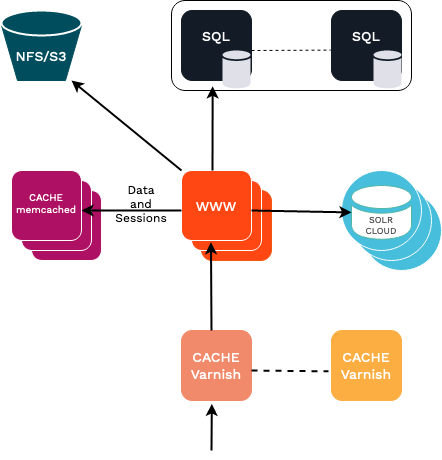
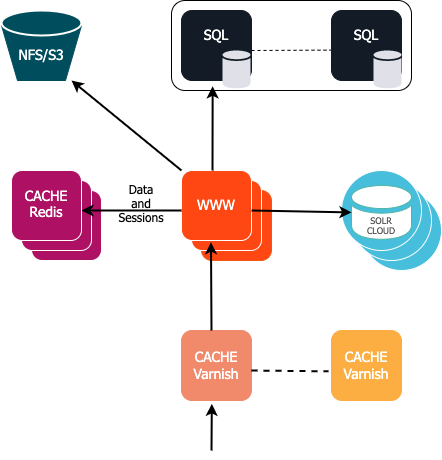
IBX-10245: Document 5.0 requirements

diff --git a/docs/infrastructure_and_maintenance/cache/persistence_cache.md b/docs/infrastructure_and_maintenance/cache/persistence_cache.md
@@ -12,7 +12,7 @@ Persistence cache can best be described as an implementation of `SPI\Persistence
 
 As shown in the illustration, this is done in the exact same way as the event layer is a custom implementation of `API\Repository` decorating the main repository.
 In the case of persistence cache, instead of sending events on calls passed on to the decorated implementation, most of the load calls are cached, and calls that perform changes purge the affected caches.
-Cache handlers *(for example, Memcached, Redis, or Filesystem)* can be configured using Symfony configuration.
+Cache handlers *(for example, Redis, or Filesystem)* can be configured using Symfony configuration.
 For details on how to reuse this Cache service in your own custom code, see below.
 
 ## Transparent cache
@@ -47,10 +47,10 @@ To see where and how to contribute additional caches, refer to the [source code]
 !!! note
 
     Current implementation uses Symfony cache.
-    It technically supports the following cache backends: [APCu, Array, Chain, Doctrine, Filesystem, Memcached, PDO & Doctrine DBAL, Php Array, Proxy, Redis]([[= symfony_doc =]]/components/cache/cache_pools.html#creating-cache-pools).
-    [[= product_name =]] officially supports only using Filesystem for single server and Redis or Memcached for clustered setups.
+    It technically supports the following cache backends: [APCu, Array, Chain, Doctrine, Filesystem, PDO & Doctrine DBAL, Php Array, Proxy, Redis]([[= symfony_doc =]]/components/cache/cache_pools.html#creating-cache-pools).
+    [[= product_name =]] officially supports only using Filesystem for single server and Redis for clustered setups.
 
-Use of Memcached or Redis as shared cache back end is a requirement for use in clustering setup.
+Use of Redis as shared cache back end is a requirement for use in clustering setup.
 For an overview of this feature, see [Clustering](clustering.md).
 Filesystem adapters, for example, are **not** intended to be used over a shared filesystem.
 
@@ -210,79 +210,9 @@ Several cloud providers have managed services that are easier to set up, handle 
     If you use Platform.sh Enterprise you can benefit from the Redis Sentinel across three nodes for great fault tolerance.
     Platform.sh Professional and lower versions offer Redis in single instance mode only.
 
-### Memcached
-
-[Memcached, a distributed caching solution](http://memcached.org/) is a cache solution that is supported for clustering use, as an alternative to Redis.
-
-See [Memcached Cache Adapter in Symfony documentation]([[= symfony_doc =]]/components/cache/adapters/memcached_adapter.html#configure-the-connection) for information on how to configure Memcached.
-
-
-#### Supported Adapters
-
-There is one Memcached adapter available out of the box.
-
-##### `Symfony\Component\Cache\Adapter\MemcachedAdapter`
-
-**Pros**: Memcached is able to handle much more concurrent load by design (multi threaded), and typically uses far less memory than Redis in general due to a simpler data structure.
-
-**Cons**: 1.5-2x more lookups to the back-end cache server then `RedisTagAwareAdapter`.
-Depending on the number of lookups and latency to cache server this might affect page load time.
-
-#### Adjusting configuration
-
-Out of the box in `config/packages/cache_pool/cache.memcached.yaml` you can find a default example that can be used.
-
-!!! note "[[= product_name_cloud =]]"
-
-    For [[= product_name_cloud =]]/Platform.sh: This is automatically configured in `vendor/ibexa/core/src/bundle/Core/DependencyInjection/IbexaCoreExtension.php` if you have enabled Memcached as `cache` Platform.sh service.
-
-For anything else, you can enable it with environment variables detected automatically by `vendor/ibexa/core/src/bundle/Core/DependencyInjection/IbexaCoreExtension.php`.
-For instance, if you set the following environment variables `export CACHE_POOL="cache.memcached" CACHE_DSN="user:pass@localhost?weight=33"`, it results in config like this:
-
-``` yaml
-services:
-    cache.memcached:
-        parent: cache.adapter.memcached
-        tags:
-            - name: cache.pool
-              clearer: cache.app_clearer
-              provider: 'memcached://user:pass@localhost?weight=33'
-              # Default CACHE_NAMESPACE value, see bin/config/cache_pool/cache.redis.yaml for usage with e.g. multi repo.
-              namespace: 'ez'
-```
-
-See `config/default_parameters.yaml` and `config/cache_pool/cache.memcached.yaml` for further details on `CACHE_POOL`, `CACHE_DSN` and `CACHE_NAMESPACE`.
-
-!!! caution "Clearing Memcached cache"
-
-    The regular `php bin/console cache:clear` command doesn't clear Memcached persistence cache.
-    Use a dedicated Symfony command to clear the pool you have configured: `php bin/console cache:pool:clear cache.memcached`.
-
-
-!!! caution "Connection errors issue"
-
-    If Memcached does display connection errors when using the default (ascii) protocol, then switching to binary protocol *(in the configuration and Memcached daemon)* should resolve the issue.
-
-!!! note
-
-    Memcached must not be bound to the local address if clusters are in use, or user logins fail.
-    To avoid this, in `/etc/memcached.conf` take a look under `# Specify which IP address to listen on. The default is to listen on all IP addresses`
-
-    For development environments, change the address below this comment in `/etc/memcached.conf` to `-l 0.0.0.0`
-
-    For production environments, follow this more secure instruction from the Memcached man:
-
-    > -l &lt;addr&gt;
-
-    > Listen on &lt;addr&gt;; default to INADDR\_ANY. &lt;addr&gt; may be specified as host:port.
-    If you don't specify a port number, the value you specified with -p or -U is used.
-    You may specify multiple addresses separated by comma or by using -l multiple times.
-    This is an important option to consider as there is no other way to secure the installation.
-    Binding to an internal or firewalled network interface is suggested.
-
 ## Using cache service
 
-Using the internal cache service allows you to use an interface and without caring whether the system is configured to place the cache in Memcached or on File system.
+Using the internal cache service allows you to use an interface and without caring whether the system is configured to place the cache on File system.
 And as [[= product_name =]] requires that instances use a cluster-aware cache in cluster setup, you can safely assume your cache is shared *(and invalidated)* across all web servers.
 
 !!! note

diff --git a/docs/infrastructure_and_maintenance/performance.md b/docs/infrastructure_and_maintenance/performance.md
@@ -16,7 +16,7 @@ If you're in a hurry, the most important recommendations on this page are:
 - Dump optimized Composer autoload classmap
 - Use a full web (Nginx/Apache) server with vhost
 - Avoid shared filesystems for code (Docker for Mac/Win, VirtualBox/*, Vagrant, and more), or find ways to optimize or work around the issues.
-- For clustering (mainly relevant for production/staging), reduce latency to Redis/Memcached, use Varnish and [Solr](solr_overview.md).
+- For clustering (mainly relevant for production/staging), reduce latency to Redis, use Varnish and [Solr](solr_overview.md).
 
 ## Client
 
@@ -31,7 +31,7 @@ In production setups:
     - Compared to the built-in Symfony Proxy in PHP Varnish is much faster and is able to queue up requests for the same fresh/invalidated resource.
     - With [ibexa/http-cache](https://github.com/ibexa/http-cache) support for xkey and grace Varnish provides more stable performance in read/write scenarios.
 - Set up [[= product_name =]] in [cluster mode](clustering.md) if you need to handle bigger spikes of traffic than a single server can manage.
-    - See [recommendation for Memcached/Redis](#memcachedredis) and [Search](#search) below.
+    - See [recommendation for Redis](#redis) and [Search](#search) below.
 
 !!! note
 
@@ -61,20 +61,15 @@ In production setups:
 - Keep Composer up to date.
 - Always dump optimized class map using `composer dump-autoload --optimize` or relevant flags on `composer install/update`.
 
-### Memcached/Redis
+### Redis
 
-!!! note
-
-    Redis is currently recommended over Memcached, as the latter has had big performance issues.
-    [Symfony v3.4.15](https://github.com/symfony/symfony/pull/28249) may have resolved this.
-
-- Memcached/Redis can in some cases perform better than filesystem cache even with a single server, as it offers better general performance for operations invalidating cache.
+- Redis can in some cases perform better than filesystem cache even with a single server, as it offers better general performance for operations invalidating cache.
     - However, pure read performance is slower, especially if the next points aren't optimized.
     - With cache being on different node(s) than web server, make sure to try to tune latency between the two.
 
 !!! tip
 
-    Check if your cloud provider has native service for Memcached/Redis, as those might be better tuned.
+    Check if your cloud provider has native service for Redis, as those might be better tuned.
 
 - If you use Redis, make sure to tune it for in-memory cache usage. Its persistence feature isn't needed with cache and severely slows down execution time.
     - [For use with sessions](sessions.md#cluster-setup) however, persistence can be a good fit if you want sessions to survive service interruptions.

diff --git a/docs/infrastructure_and_maintenance/clustering/clustering.md b/docs/infrastructure_and_maintenance/clustering/clustering.md
@@ -13,12 +13,12 @@ The parts illustrate the different roles needed for a successful cluster setup.
 
 ![Server setup for clustering](server_setup.png)
 
-The number of web servers, Memcached/Redis, Solr, Varnish, Database, and NFS servers, but also whether some servers play several of these roles (typically running Memcached/Redis across the web server), is up to you and your performance needs.
+The number of web servers, Redis, Solr, Varnish, Database, and NFS servers, but also whether some servers play several of these roles (typically running Redis across the web server), is up to you and your performance needs.
 
 The minimal requirements are:
 
 - [Shared HTTP cache (using Varnish)](reverse_proxy.md#using-varnish-or-fastly)
-- [Shared persistence cache](#shared-persistence-cache) and [sessions](#shared-sessions) (using Redis or Memcached)
+- [Shared persistence cache](#shared-persistence-cache) and [sessions](#shared-sessions) (using Redis)
 - Shared database (using MySQL/MariaDB)
 - [Shared binary files](#shared-binary-files) (using NFS, or S3)
 
@@ -35,21 +35,20 @@ It's also recommended to use:
 ### Shared persistence cache
 
 Redis is the recommended cache solution for clustering.
-An alternative solution is using Memcached.
 
 See [persistence cache documentation](persistence_cache.md#persistence-cache-configuration) on information on how to configure them.
 
 ### Shared sessions
 
 For a [cluster](clustering.md) setup you need to configure sessions to use a back end that is shared between web servers.
-The main options out of the box in Symfony are the native PHP Memcached or PHP Redis session handlers, alternatively there is Symfony session handler for PDO (database).
+The main option out of the box in Symfony is the PHP Redis session handler, alternatively there is Symfony session handler for PDO (database).
 
 To avoid concurrent access to session data from front-end nodes, if possible you should either:
 
 - Enable [Session locking](https://www.php.net/manual/en/features.session.security.management.php#features.session.security.management.session-locking)
 - Use "Sticky Session", aka [Load Balancer Persistence](https://en.wikipedia.org/wiki/Load_balancing_%28computing%29#Persistence)
 
-Session locking is available with `php-memcached`, and with `php-redis` (v4.2.0 and higher).
+Session locking is available with `php-redis` (v4.2.0 and higher).
 
 On [[= product_name_cloud =]] (and Platform.sh) Redis is preferred and supported.
 

diff --git a/docs/getting_started/requirements.md b/docs/getting_started/requirements.md
@@ -17,7 +17,7 @@ The following server requirements cover both running the software on-premise and
     For running on [[[= product_name_cloud =]]](https://www.ibexa.co/products/ibexa-cloud), where recommended configuration and support is provided out of the box, see separate [[[= product_name_cloud =]] section](#ibexa-cloud-requirements-and-setup) for further reading on its requirements.
 
 The minimal setup requires PHP, MySQL/MariaDB, Apache/Nginx, Node.js and `yarn`.
-Recommendation for production setups is to use Varnish/Fastly, Redis/Memcached, NFS/EFS/S3 and Solr/Elasticsearch in a [clustered setup](clustering.md).
+For production setups it's recommended that you use Varnish/Fastly, Redis, NFS/EFS/S3 and Solr/Elasticsearch in a [clustered setup](clustering.md).
 
 !!! caution "Recommended versions"
 
@@ -202,7 +202,7 @@ Recommendation for production setups is to use Varnish/Fastly, Redis/Memcached, 
 
 === "[[= product_name =]] v5.0"
 
-    - `php-redis` or `php-memcached`
+    - `php-redis`
 
 === "[[= product_name =]] v4.6"
 
@@ -287,7 +287,7 @@ Recommendation for production setups is to use Varnish/Fastly, Redis/Memcached, 
 === "[[= product_name =]] v5.0"
 
     - Linux NFS or S3/EFS (for IO, aka binary files stored in content repository, not supported with legacy)
-    - Redis 4.0+ or 5.0+ (separate instances for session and cache, both using a `volatile-*` [eviction policy](https://redis.io/docs/latest/develop/reference/eviction/), session instance configured for persistence) or [Memcached](https://memcached.org/) 1.5 or higher
+    - Redis 4.0+ or 5.0+ (separate instances for session and cache, both using a `volatile-*` [eviction policy](https://redis.io/docs/latest/develop/reference/eviction/), session instance configured for persistence)
     - [Varnish](http://varnish-cache.org/) 6.0LTS or 7.1 with [varnish-modules](https://github.com/varnish/varnish-modules/blob/master/README.md) or [Fastly](https://www.fastly.com/) using [the provided bundle](http_cache.md) (for HTTP Cache)
 
     If you see a "+" next to the product version, it indicates a recommended version or higher within the same major release.

diff --git a/docs/infrastructure_and_maintenance/clustering/clustering_with_ddev.md b/docs/infrastructure_and_maintenance/clustering/clustering_with_ddev.md
@@ -120,37 +120,3 @@ You can now check whether Redis works.
 For example, the `ddev redis-cli MONITOR` command returns outputs, for example, `"SETEX" "ezp:`, `"MGET" "ezp:`, `"SETEX" "PHPREDIS_SESSION:`, or `"GET" "PHPREDIS_SESSION:`, while navigating into the website, in particular the back office.
 
 See [Redis commands](https://redis.io/docs/latest/commands/) for more details such as information about the [`MONITOR`](https://redis.io/docs/latest/commands/monitor/) command used in the previous example.
-
-### Install Memcached
-
-First, if not already there, append the following [new service](https://doc.ibexa.co/en/latest/infrastructure_and_maintenance/sessions/#handling-sessions-with-memcached) to `config/services.yaml`:
-
-```yaml
-    app.session.handler.native_memcached:
-        class: Ibexa\Bundle\Core\Session\Handler\NativeSessionHandler
-        arguments:
-            - '%session.save_path%'
-            - memcached
-```
-
-Second, install and set up the add-on.
-The following sequence of commands:
-
-1. Adds the Memcached container.
-1. Sets Memcached as the cache pool.
-1. Sets Memcached as the session handler.
-1. Restarts the DDEV cluster and clears application cache.
-
-```bash
-ddev add-on get ddev/ddev-memcached
-ddev config --web-environment-add CACHE_POOL=cache.memcached
-ddev config --web-environment-add CACHE_DSN=memcached
-ddev config --web-environment-add SESSION_HANDLER_ID=app.session.handler.native_memcached
-ddev config --web-environment-add SESSION_SAVE_PATH=memcached:11211
-ddev restart
-ddev php bin/console cache:clear
-```
-
-You can now check whether everything went right.
-
-For example, the `watch 'ddev exec netcat -w1 memcached 11211 <<< "stats" | grep "cmd_.et "'` command checks whether the `web` service can access the `memcached` service, and displays the increase of `cmd_get` and `cmd_set` while navigating into the website.

diff --git a/docs/infrastructure_and_maintenance/sessions.md b/docs/infrastructure_and_maintenance/sessions.md
@@ -9,7 +9,7 @@ It's further enhanced in [[= product_name =]] with support for SiteAccess-aware
 
 !!! note
 
-    Use of Memcached, Redis (or experimentally PDO) as session handler is a requirement in a cluster setup, for details [see below](#cluster-setup). For an overview of the clustering feature see [Clustering](clustering.md).
+    Use of Redis (or experimentally PDO) as session handler is a requirement in a cluster setup, for details [see below](#cluster-setup). For an overview of the clustering feature see [Clustering](clustering.md).
 
 ## Configuration
 
@@ -75,30 +75,6 @@ For a single server, the default file handler is preferred.
 #### Cluster setup
 
 See [shared sessions in the clustering guide](clustering.md#shared-sessions).
-
-##### Handling sessions with Memcached
-
-To set up [[= product_name =]] using [Memcached](https://pecl.php.net/package/memcached) you need to:
-
-- [Configure the session save handler settings in `php.ini`](https://www.php.net/manual/en/memcached.sessions.php)
-- Set `%ibexa.session.handler_id%` to `~` (null) in `config/packages/ibexa.yaml`
-
-Alternatively if you need to configure Memcached servers dynamically:
-
-- Create a Symfony service like this:
-
-```yaml
-    app.session.handler.native_memcached:
-        class: Ibexa\Bundle\Core\Session\Handler\NativeSessionHandler
-        arguments:
-         - '%session.save_path%'
-         - memcached
-```
-
-- Set `%ibexa.session.handler_id%` (or `SESSION_HANDLER_ID` env var) to `app.session.handler.native_memcached`
-- Set `%ibexa.session.save_path%` (or `SESSION_SAVE_PATH` env var) to [`save_path` config for Memcached](https://www.php.net/manual/en/memcached.sessions.php)
-
-Optionally tweak [`php-memcached` session settings](https://www.php.net/manual/en/memcached.configuration.php) for things like session locking.
 
 ##### Handling sessions with Redis
 

diff --git a/docs/getting_started/install_with_ddev.md b/docs/getting_started/install_with_ddev.md
@@ -415,7 +415,7 @@ If the local project needs to answer to real production domains (for example, to
 
 You can use DDEV to locally simulate a production cluster.
 
-- See [Clustering with DDEV](clustering_with_ddev.md) to add Elasticsearch, Solr, Redis, or Memcached to your DDEV installation.
+- See [Clustering with DDEV](clustering_with_ddev.md) to add Elasticsearch, Solr, or Redis to your DDEV installation.
 - See [DDEV and Ibexa Cloud](ddev_and_ibexa_cloud.md) to locally run an [[= product_name =]] project by using DDEV.
 
 ## Stop or remove the project

diff --git a/docs/infrastructure_and_maintenance/support_and_maintenance_faq.md b/docs/infrastructure_and_maintenance/support_and_maintenance_faq.md
@@ -72,12 +72,6 @@ php bin/console cache:clear --env prod
 php bin/console cache:pool:clear cache.redis
 ```
 
-- clearing Memcached cache
-
-```bash
-php bin/console cache:pool:clear cache.memcached
-```
-
 - clearing the Symfony cache manually
 
 ```bash
